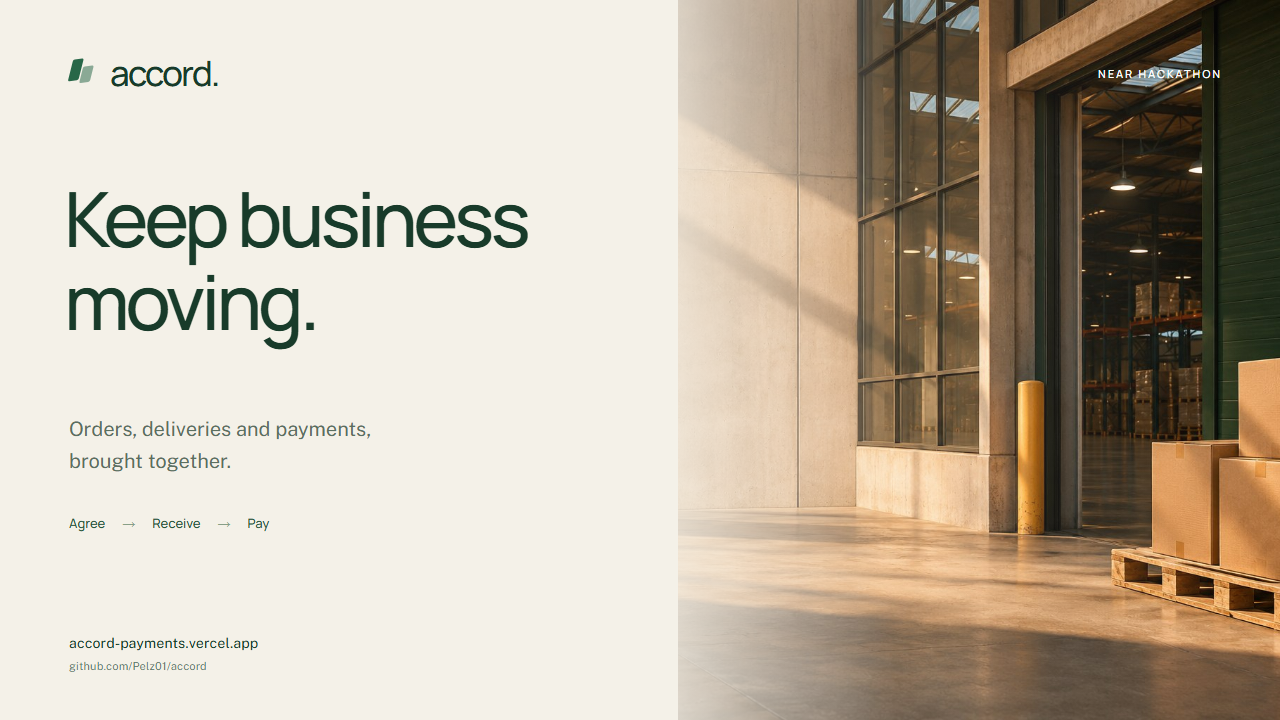
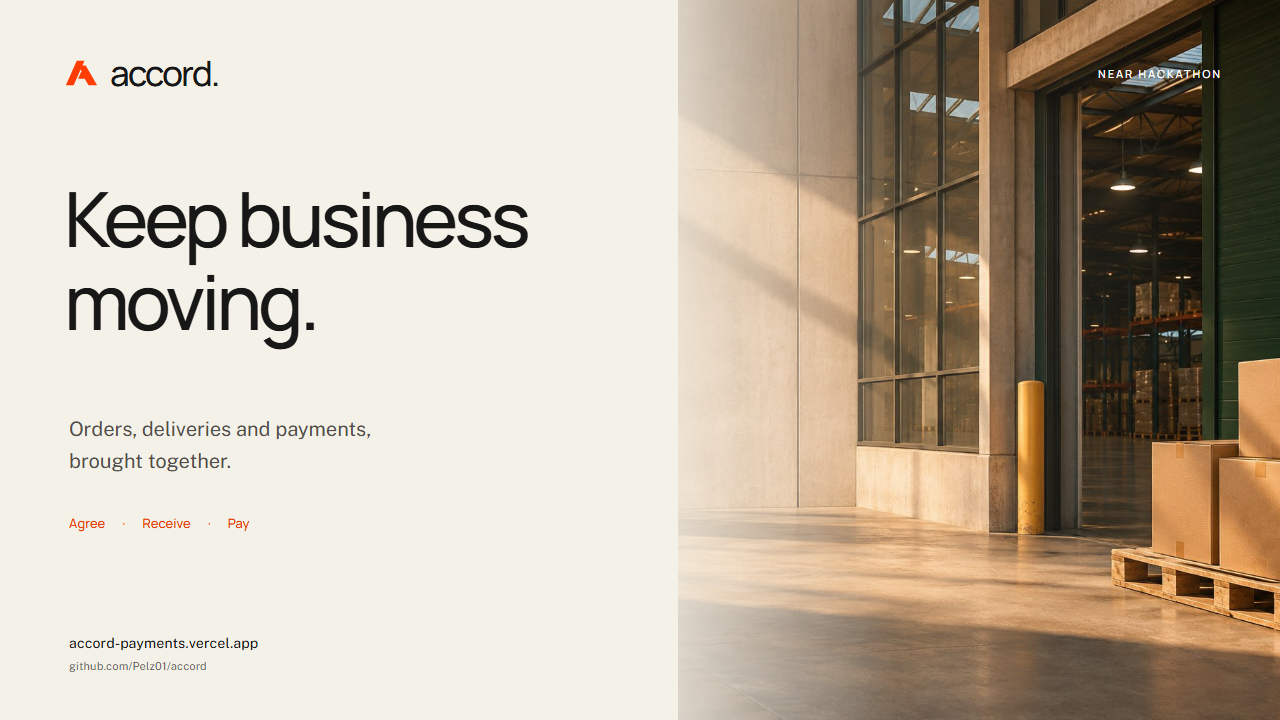
Publish verified mainnet settlement, refunds and submission materials [skip ci]

diff --git a/src/landing/Landing.tsx b/src/landing/Landing.tsx
@@ -18,10 +18,9 @@ import '@fontsource/bodoni-moda/latin-400-italic.css';
 import './landing.css';
 import './product-art.css';
 
-const vault = 'vault.accord-v2-8e0a631d.testnet';
-const contractUrl = `https://testnet.nearblocks.io/address/${vault}`;
-const firstPayment =
-  'https://testnet.nearblocks.io/txns/GTntahDMfctnQyW8UauV2t7vF27swdgFh98jrw1f63tQ';
[1 lines of base64/hex data omitted]
+const contractUrl = `https://nearblocks.io/address/${vault}`;
+const firstPayment = 'https://nearblocks.io/txns/F8tY6iegPD3VNi3sE5e2Dv4uA9dySPkv3ZwjjwCR9YAL';
 function Brand({ light = false }: { light?: boolean }) {
   return (
     <a className={`landing-brand ${light ? 'light' : ''}`} href="/" aria-label="Accord home">
@@ -104,28 +103,28 @@ function ProductIllustration() {
             <div>
               <span>Order value</span>
               <strong>
-                1,000<small>aUSD</small>
+                1,000<small>USDC</small>
               </strong>
             </div>
             <div>
               <span>Paid to supplier</span>
               <strong>
                 {paid * 10}
-                <small>aUSD</small>
+                <small>USDC</small>
               </strong>
             </div>
             <div className="product-budget-eligible">
               <span>Eligible to pay</span>
               <strong>
                 {pending ? 0 : eligible * 10}
-                <small>aUSD</small>
+                <small>USDC</small>
               </strong>
             </div>
           </div>
           <div className="product-table">
             <div className="product-table-head">
               <span>ORDER DETAILS</span>
-              <span>Fixed price · aUSD</span>
+              <span>Fixed price · USDC</span>
             </div>
             <div className="product-table-labels">
               <span>Item</span>
@@ -139,7 +138,7 @@ function ProductIllustration() {
                   <PackageCheck size={19} />
                 </span>
                 <div>
-                  Packing cartons<small>10 aUSD per carton</small>
+                  Packing cartons<small>10 USDC per carton</small>
                 </div>
               </div>
               <span>100</span>
@@ -163,7 +162,7 @@ function ProductIllustration() {
                 <p>
                   {pending
                     ? 'Entitlement is reserved while the outcome is checked.'
-                    : `Fixed recipient · supplier.testnet · ${100 - accepted} cartons awaiting delivery`}
+                    : `Fixed recipient · Meridian Supply · ${100 - accepted} cartons awaiting delivery`}
                 </p>
               </div>
             </div>
@@ -343,12 +342,12 @@ export function Landing() {
           </p>
           <a href={contractUrl} target="_blank" rel="noreferrer">
             <span>
-              NEAR TESTNET<small>Deployed payment contract</small>
+              NEAR MAINNET<small>Deployed payment contract</small>
             </span>
           </a>
           <a href={firstPayment} target="_blank" rel="noreferrer">
             <span>
-              PARTIAL SETTLEMENT<small>Inspect a real 400 aUSD payment</small>
+              PARTIAL SETTLEMENT<small>Inspect a real 0.01 USDC payment</small>
             </span>
           </a>
           <a href="https://github.com/Pelz01/accord" target="_blank" rel="noreferrer">
@@ -457,8 +456,8 @@ export function Landing() {
                     ? [
                         ['Supplier', 'Meridian Supply Co.'],
                         ['Order quantity', '100 cartons'],
-                        ['Price per carton', '10 aUSD'],
-                        ['Committed budget', '1,000 aUSD'],
+                        ['Price per carton', '10 USDC'],
+                        ['Committed budget', '1,000 USDC'],
                       ]
                     : activeStep === 1
                       ? [
@@ -468,10 +467,10 @@ export function Landing() {
                           ['Authorized receiver', 'Warehouse'],
                         ]
                       : [
-                          ['Accepted entitlement', '400 aUSD'],
-                          ['Already paid', '0 aUSD'],
-                          ['Pending reservations', '0 aUSD'],
-                          ['Eligible now', '400 aUSD'],
+                          ['Accepted entitlement', '400 USDC'],
+                          ['Already paid', '0 USDC'],
+                          ['Pending reservations', '0 USDC'],
+                          ['Eligible now', '400 USDC'],
                         ]
                   ).map(([k, v]) => (
                     <div key={k}>
@@ -574,7 +573,7 @@ export function Landing() {
               <span>Eligible now</span>
               <strong>40</strong>
             </div>
-            <p>At 10 aUSD per carton, that’s a 400 aUSD partial payment.</p>
+            <p>At 10 USDC per carton, that’s a 400 USDC partial payment.</p>
           </div>
         </section>
         <section className="landing-questions landing-section" id="questions">

diff --git a/submission/accord-poster.html b/submission/accord-poster.html
@@ -1,3 +1,3 @@
 <!doctype html><html lang="en"><head><meta charset="utf-8"><title>Accord - NEAR Hackathon</title><style>
-@font-face{font-family:Manrope;src:url('../node_modules/@fontsource/manrope/files/manrope-latin-500-normal.woff2')}@font-face{font-family:Public;src:url('../node_modules/@fontsource/public-sans/files/public-sans-latin-400-normal.woff2')}*{box-sizing:border-box}body{margin:0;background:#f4f1e8;color:#183b2a;font-family:Public,sans-serif}.poster{position:relative;width:1280px;height:720px;overflow:hidden}.photo{position:absolute;right:0;top:0;width:47%;height:100%;object-fit:cover;object-position:66% center}.shade{position:absolute;inset:0;background:linear-gradient(90deg,#f4f1e8 0%,#f4f1e8 48%,rgba(244,241,232,.12) 70%,transparent 100%)}.brand{position:absolute;left:64px;top:49px;display:flex;gap:12px;align-items:center;font:500 35px Manrope;letter-spacing:-2px}.poster-mark{display:block;width:34px;height:34px}.tag{position:absolute;top:66px;right:58px;font:11px Manrope;letter-spacing:2px;color:white;text-shadow:0 1px 6px #24382a}h1{position:absolute;left:64px;top:177px;width:650px;margin:0;font:500 76px/1.09 Manrope;letter-spacing:-4px}.sub{position:absolute;left:69px;top:393px;width:440px;font:20px/1.6 Public;color:#5b6f5f}.path{position:absolute;left:69px;top:514px;display:flex;gap:17px;align-items:center;font:13px Manrope;color:#28573c}.path span{color:#879f87}.footer{position:absolute;left:69px;bottom:48px;font:14px Public;letter-spacing:.2px}.footer small{display:block;font-size:11px;opacity:.65;margin-top:9px}
-</style></head><body><main class="poster"><img class="photo" src="../public/images/accord-commerce.jpg" alt="Warehouse loading bay"><div class="shade"></div><div class="brand"><img class="poster-mark" src="../public/brand/accord-mark.svg" alt="">accord.</div><div class="tag">NEAR HACKATHON</div><h1>Keep business<br>moving.</h1><p class="sub">Orders, deliveries and payments,<br>brought together.</p><div class="path">Agree<span>→</span>Receive<span>→</span>Pay</div><div class="footer">accord-payments.vercel.app<small>github.com/Pelz01/accord</small></div></main></body></html>
+@font-face{font-family:Manrope;src:url('../node_modules/@fontsource/manrope/files/manrope-latin-500-normal.woff2')}@font-face{font-family:Public;src:url('../node_modules/@fontsource/public-sans/files/public-sans-latin-400-normal.woff2')}*{box-sizing:border-box}body{margin:0;background:#f4f1e8;color:#171717;font-family:Public,sans-serif}.poster{position:relative;width:1280px;height:720px;overflow:hidden}.photo{position:absolute;right:0;top:0;width:47%;height:100%;object-fit:cover;object-position:66% center}.shade{position:absolute;inset:0;background:linear-gradient(90deg,#f4f1e8 0%,#f4f1e8 48%,rgba(244,241,232,.12) 70%,transparent 100%)}.brand{position:absolute;left:64px;top:49px;display:flex;gap:12px;align-items:center;font:500 35px Manrope;letter-spacing:-2px}.poster-mark{display:block;width:34px;height:34px}.tag{position:absolute;top:66px;right:58px;font:11px Manrope;letter-spacing:2px;color:white;text-shadow:0 1px 6px #171717}h1{position:absolute;left:64px;top:177px;width:650px;margin:0;font:500 76px/1.09 Manrope;letter-spacing:-4px}.sub{position:absolute;left:69px;top:393px;width:440px;font:20px/1.6 Public;color:#514d4a}.path{position:absolute;left:69px;top:514px;display:flex;gap:17px;align-items:center;font:13px Manrope;color:#e53600}.path span{color:#ff3d00}.footer{position:absolute;left:69px;bottom:48px;font:14px Public;letter-spacing:.2px}.footer small{display:block;font-size:11px;opacity:.65;margin-top:9px}
+</style></head><body><main class="poster"><img class="photo" src="../public/images/accord-commerce.jpg" alt="Warehouse loading bay"><div class="shade"></div><div class="brand"><img class="poster-mark" src="../public/brand/accord-mark.svg" alt="">accord.</div><div class="tag">NEAR HACKATHON</div><h1>Keep business<br>moving.</h1><p class="sub">Orders, deliveries and payments,<br>brought together.</p><div class="path">Agree<span>·</span>Receive<span>·</span>Pay</div><div class="footer">accord-payments.vercel.app<small>github.com/Pelz01/accord</small></div></main></body></html>

diff --git a/MAINNET_RELEASE.md b/MAINNET_RELEASE.md
@@ -72,20 +72,26 @@ On the disposable sandbox, the identical normal candidate was initialized with t
 
 The owner approved the Intear/Rhea acquisition of **0.364520 native USDC** using 0.1 NEAR plus wallet gas/storage, then funded the three controlled setup accounts with **2.69 NEAR** in total. The mainnet service is isolated at **/home/ubuntu/accord/mainnet**, on its own database, configuration, proxy credential, document service and operator key. Only a vault-scoped request_payment key with finite allowance may run on the server. Master keys stay in ignored local storage; they never enter Vercel or the public repository.
 
-The tested contract is now deployed: [deployment receipt](https://nearblocks.io/txns/AhwibHUiHGQuQecLsZQZc9nS68SbyfUPhwET3zyS4TwQ). Its worker key is limited to request_payment with 0.015 NEAR allowance. The hosted default is mainnet; /workspace?network=testnet selects the separate existing testnet service. Direct mainnet order settlement and its browser evidence are still pending. USDC acquisition used Intear's Rhea route; it is **not** evidence of a live Accord NEAR Intents swap. Order cleanup and safe production shutdown also remain separate from unused allowance refunds.
+The tested contract is now deployed: [deployment receipt](https://nearblocks.io/txns/AhwibHUiHGQuQecLsZQZc9nS68SbyfUPhwET3zyS4TwQ). Its original worker key had a 0.015 NEAR allowance; that key was later revoked during the gas recovery described below. The hosted default is mainnet; /workspace?network=testnet selects the separate existing testnet service. The first mainnet order completed settlement and refunds; see [mainnet settlement evidence](fixtures/mainnet-settlement-evidence.json). USDC acquisition used Intear's Rhea route; it is **not** evidence of a live Accord NEAR Intents swap. Order cleanup and safe production shutdown also remain separate from unused allowance refunds.
 
 The existing [internal security review](SECURITY_REVIEW.md) remains applicable. Unused token withdrawal requires mutual closure after accepted goods are paid and pending transfers are zero. Either party can block closure. Unknown transfers retain their reservations; a timeout does not authorize replacement spending. The native order deposit is not part of the token refund. Use controlled amounts that may remain locked. Independent review and production operations remain outstanding before meaningful customer value.
 
 The first browser creation request was rejected by Intear before broadcast because its default 150 TGas reservation exceeded the buyer's remaining balance. Mainnet wallet calls now use method-specific allowances verified by the mainnet-domain sandbox: 50 TGas creation, 30 registration, 70 token funding, 25 simple approvals, 80 closure and 40 native claims. No contract minimum was lowered. While the vault had no orders or token obligations, 0.064 NEAR of unused setup capital was reallocated to the controlled supplier for its prepaid wallet gas. Code/state backing and a further 0.005 NEAR platform margin were protected. No extra funding was added.
 
-The buyer created **PO-7886D7BD** through Intear on mainnet: 2 cartons at 0.01 USDC each, with a 0.1 NEAR native storage allowance. The [finalized creation receipt](https://nearblocks.io/txns/3piSPs3xhd5F9A9oxLMoE26HyXko5ejcDeBYx716zGB4) and [public evidence](fixtures/mainnet-order-created-evidence.json) establish creation only. Supplier acceptance, funding with 0.02 USDC and buyer confirmation of one carton are now finalized through Intear. Supplier invoice confirmation, the 0.01 USDC partial payment and refunds remain pending. See [browser progress evidence](fixtures/mainnet-browser-progress-evidence.json). Intear returned an incomplete receipt to the app after successful creation; the client now accepts supported outcome envelopes and recovers creation by its unique order ID from finalized records. An unresolved creation is held across reloads rather than generating another wallet request.
+The buyer created **PO-7886D7BD** through Intear on mainnet: 2 cartons at 0.01 USDC each, with a 0.1 NEAR native storage allowance. The [finalized creation receipt](https://nearblocks.io/txns/3piSPs3xhd5F9A9oxLMoE26HyXko5ejcDeBYx716zGB4) and [public evidence](fixtures/mainnet-order-created-evidence.json) establish creation only. Supplier acceptance, funding with 0.02 USDC and buyer confirmation of one carton are now finalized through Intear. Supplier invoice confirmation, a 0.01 USDC partial payment, the remaining 0.01 USDC token refund and a 0.0689625 NEAR storage refund are now confirmed. The order is Closed with paid quantity 1, pending 0 and no USDC left in the vault. See [browser progress evidence](fixtures/mainnet-browser-progress-evidence.json). Intear returned an incomplete receipt to the app after successful creation; the client now accepts supported outcome envelopes and recovers creation by its unique order ID from finalized records. An unresolved creation is held across reloads rather than generating another wallet request.
 
 ## Intents funding implementation
 
-The repository includes a feature-gated NEAR Intents 1Click funding flow. It is **disabled in the live deployment**, and no live Intents transfer has been tested. The existing Rhea acquisition remains separate evidence. The API and frontend are deployed, but `intents-funding-v1` remains disabled until the direct mainnet journey passes. The API image is `accord-mainnet-api:2.5.1`; its database backup passed an integrity check before replacement. The existing order, scoped worker and separate testnet service remain intact.
+The repository includes a feature-gated NEAR Intents 1Click funding flow. The controlled-buyer feature is now enabled after direct settlement and refunds passed. The first live Intents transfer is being verified. The existing Rhea acquisition remains separate evidence. The API and frontend are deployed, and `intents-funding-v1` is enabled for the configured controlled buyer. The API image is `accord-mainnet-api:2.5.2`; its database backup passed an integrity check before replacement. The existing order, scoped worker and separate testnet service remain intact.
 
 The initial integration accepts at most 0.01 NEAR per request from the configured controlled buyer. Quotes pin wrapped NEAR as input and native NEAR USDC as output, with the same buyer as recipient and refund destination, exact amounts, expiry and a 1% slippage limit. Wallet review precedes an atomic wrapped-NEAR registration/wrap/transfer batch. Receiving USDC in the buyer's wallet and funding an Accord order remain separate transactions. Other source chains are not implemented.
 
 The API stores an unresolved request before asking the wallet to sign. Unknown submissions remain held; status checks never trigger another wallet request. Settlement requires a verified source transaction and a successful native-USDC transfer receipt, rather than only a provider status. Failed, refunded or incomplete swaps remain available for review; provider-reported refunds are not independently established as returned funds. Isolated tests cover expiry, changed recipients/assets, duplicate submission, racing status reads, read outages and forged settlement evidence. These tests do not establish a live swap.
 
-The current application checks pass 72 unit/service tests and 33 isolated browser journeys, including recovery from incomplete wallet receipts. The same 72 application tests passed inside the Linux API image build. These are separate from the existing same-WASM contract sandbox proofs. A read-only 1Click dry quote confirms that 0.01 NEAR is currently quoteable into native USDC; no Intents deposit has been sent.
+The current application checks pass 73 unit/service tests and 33 isolated browser journeys, including recovery from incomplete wallet receipts. The same 73 application tests passed inside the Linux API image build. These are separate from the existing same-WASM contract sandbox proofs. A read-only 1Click dry quote confirms that 0.01 NEAR is currently quoteable into native USDC; the separately authorized live deposit is now being verified.
+
+## Mainnet worker gas recovery
+
+The initial worker retained a 150 TGas testnet setting. Mainnet RPC rejected its original transaction before inclusion because the required prepaid balance exceeded the service account balance. The worker was paused, and its old signing key was revoked while the balance was still below that transaction cost. The original nonce had not been consumed; after finalized revocation, the old authorization could no longer execute. A replacement key remains limited to request_payment on the same vault with finite 0.09 NEAR allowance. Only then was the retained job requeued with the same request ID and an 80 TGas authorization. Four same-WASM mainnet-domain sandbox checks passed at that gas, including partial payment and replay rejection.
+
+A temporary 0.064 NEAR float from the controlled supplier’s setup balance covered prepaid gas; the entire float was returned after settlement. A further 0.005 NEAR of setup capital was reallocated to the buyer for closure gas. No external funding was added. See [recovery evidence](fixtures/mainnet-worker-recovery-evidence.json). Actual execution consumed much less than the prepaid reserve. The transaction [settled 0.01 USDC](https://nearblocks.io/txns/F8tY6iegPD3VNi3sE5e2Dv4uA9dySPkv3ZwjjwCR9YAL), then [closure returned 0.01 USDC](https://nearblocks.io/txns/FDvVLCf7XpKgrTXAQg8zk4H7VhEXna2BQpaC3CFZWtnW) and [the buyer claimed unused native allowance](https://nearblocks.io/txns/DVCc6ahTnTdvB11mHuUqn4bsYLHcNdDgsPYpWJsdXewP). The remaining 0.0310375 NEAR backs retained records and their storage buffer.

diff --git a/README.md b/README.md
@@ -6,7 +6,7 @@ Manage purchase orders, confirm deliveries and pay suppliers in one place.
 
 Accord keeps buying teams and suppliers on the same page, from the first order to the final payment. AI prepares invoice details for review. Suppliers confirm them, buyers confirm delivery, and Accord handles eligible payments within the NEAR contract’s limits. A buyer can optionally appoint someone else to confirm deliveries.
 
-The hosted product is [accord-payments.vercel.app](https://accord-payments.vercel.app). It includes a public landing page and a wallet-gated procurement workspace. **The hosted default now uses NEAR mainnet and native USDC**, with a controlled release under the owner's 3 NEAR cap. The deployed code and restricted worker are verified; the first live USDC order journey is being checked. The existing testnet service remains separate at /workspace?network=testnet. See [mainnet release status](MAINNET_RELEASE.md) and [deployment evidence](fixtures/mainnet-deployment-evidence.json).
+The hosted product is [accord-payments.vercel.app](https://accord-payments.vercel.app). It includes a public landing page and a wallet-gated procurement workspace. **The hosted default now uses NEAR mainnet and native USDC**, with a controlled release under the owner's 3 NEAR cap. The deployed code and restricted worker are verified; the first live USDC order has completed partial settlement, mutual closure and both token and native-deposit refunds. The existing testnet service remains separate at /workspace?network=testnet. See [mainnet release status](MAINNET_RELEASE.md) and [deployment evidence](fixtures/mainnet-deployment-evidence.json).
 
 ## Run
 
@@ -126,7 +126,7 @@ The real testnet check refunded 300 aUSD on PO-TESTNET-001. See fixtures/recover
 
 Supplier invoice confirmation and PDF/OCR are implemented and verified through the hosted app. The live check processed both a text PDF and a scanned PDF with real NEAR AI extraction, confirmed the scanned invoice through the supplier account, rejected missing/tampered confirmations, and settled another 100 aUSD. PO-WORKER-001 now has paid quantity 80 and pending 0. See fixtures/invoice-release-evidence.json.
 
-Run npm run verify:documents in Linux/WSL for seven native file checks. npm run verify:invoices:testnet is an explicit live test using ignored generated credentials; it verifies all three sandbox artifact hashes before upgrading and recovers the existing request on repeat runs. Mainnet network integration, production token validation and contract deployment are complete. The first mainnet order has buyer creation, supplier acceptance, 0.02 USDC funding and one-carton delivery confirmed through Intear. Invoice confirmation, settlement and refund checks are pending. Intents funding is implemented behind a disabled release flag and still needs a live check. Independent review and production operations remain outstanding. Submission drafts are in submission/materials.json; recording, public posting and actual submission remain pending.
+Run npm run verify:documents in Linux/WSL for seven native file checks. npm run verify:invoices:testnet is an explicit live test using ignored generated credentials; it verifies all three sandbox artifact hashes before upgrading and recovers the existing request on repeat runs. Mainnet network integration, production token validation and contract deployment are complete. The mainnet order completed buyer creation, supplier acceptance, 0.02 USDC funding, one-carton delivery, supplier invoice confirmation, a 0.01 USDC payment, a 0.01 USDC token refund and a 0.0689625 NEAR storage refund. The buyer and supplier used Intear for the customer steps; the controlled supplier’s closure proposal used the SDK. Intents funding is enabled for the controlled buyer and its first live transfer is being verified. Independent review and production operations remain outstanding. Submission drafts are in submission/materials.json; recording, public posting and actual submission remain pending.
 
 A real Intear buyer wallet created and funded a 100 aUSD order through the hosted browser, authenticated a scanned-invoice upload, and approved closure after a 40 aUSD partial payment. The remaining 60 aUSD returned to the buyer; the order is Closed with no pending amount. See fixtures/browser-wallet-evidence.json. A separate real Intear journey now verifies supplier acceptance and invoice confirmation, receiver delivery confirmation, and operator NEP-413 authorization of a 40 aUSD payment. The hosted worker settled four cartons with zero pending; remittance and the actual CSV download match the chain receipt. That separate order used an SDK fixture buyer and remains Open with 60 aUSD for later deliveries or mutual closure. See fixtures/browser-roles-evidence.json. The user approved all wallet signing prompts. All four roles have real browser coverage across these two orders; no single all-browser order or mainnet execution is claimed.
 

diff --git a/JUDGE.md b/JUDGE.md
@@ -6,6 +6,19 @@ Open [accord-payments.vercel.app](https://accord-payments.vercel.app) for the ho
 
 The normal flow uses two customer wallets: buyer and supplier. The buyer creates and funds the order, then confirms delivery using the same wallet. An optional warehouse reviewer can be assigned at creation. The supplier accepts terms and confirms invoice fields. Accord’s restricted background worker requests eligible payment; the contract enforces the financial limits. Creation, acceptance, funding, delivery and supplier invoice confirmation remain wallet transactions. Invoice extraction requires the server's NEAR_AI_API_KEY and fails visibly when unavailable. Existing manual-policy orders retain their operator NEP-413 authorization flow. Never share a private key in chat or commit it.
 
+
+## Verified mainnet demonstration
+
+PO-7886D7BD is Closed: 2 cartons ordered, 1 accepted and paid, pending 0. It was funded with 0.02 native USDC; 0.01 USDC reached the supplier and 0.01 USDC returned to the buyer. The buyer also recovered 0.0689625 NEAR of its native allowance; 0.0310375 NEAR remains backing retained records and the buffer. [Evidence](fixtures/mainnet-settlement-evidence.json) links actual mainnet receipts. [Live NEAR AI metadata](fixtures/mainnet-ai-invoice-evidence.json) records the text-invoice extraction. PDF/OCR has separate historical testnet evidence. The supplier closure proposal and operational recovery used controlled SDK keys; the customer acceptance, invoice confirmation, buyer actions and refunds were exercised through Intear.
+
+Read the public state without a wallet:
+
+```sh
+node --input-type=module -e "const r=await fetch('https://accord-payments.vercel.app/api/chain/state?account=mainnett12.near',{headers:{'x-accord-network':'mainnet'}});const s=await r.json();console.log(JSON.stringify({order:s.orders[0],recovery:s.recoveries['PO-7886D7BD'],nativeDeposit:s.nativeDeposits['PO-7886D7BD']},null,2));"
+```
+
+The regular workspace requires a related wallet for its customer views. The public proof above does not expose invoice files or source text. The mainnet WASM is unchanged by the worker gas correction. Current application checks include 73 unit/service cases and the existing isolated browser journeys. Historical testnet evidence below remains labeled testnet.
+
 ## Two-wallet automatic orders
 
 Version 2.3.0-automatic adds create_automatic_order and get_payment_policy without changing stored Vault/Order/Attempt layouts. The buyer is the default receiver; a separate reviewer is optional. The service account stays separate. Automatic execution is agreed at creation and bound into the terms hash; existing orders remain manual. The UI contains no service-wallet setup or payment-authorization step for automatic orders. After a supplier-confirmed invoice and delivery, follow Payments for settlement and remittance.
